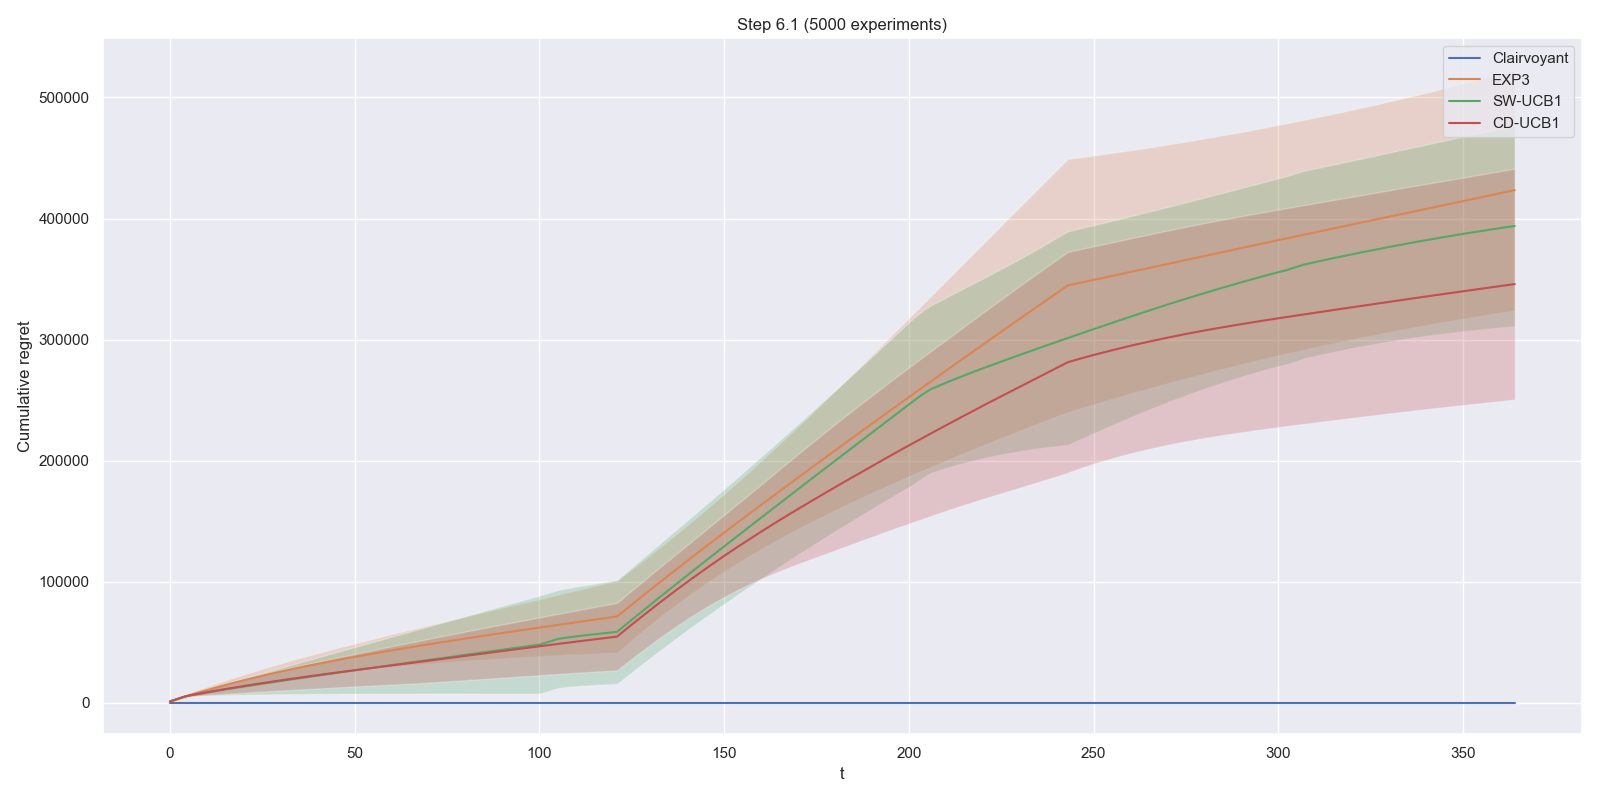
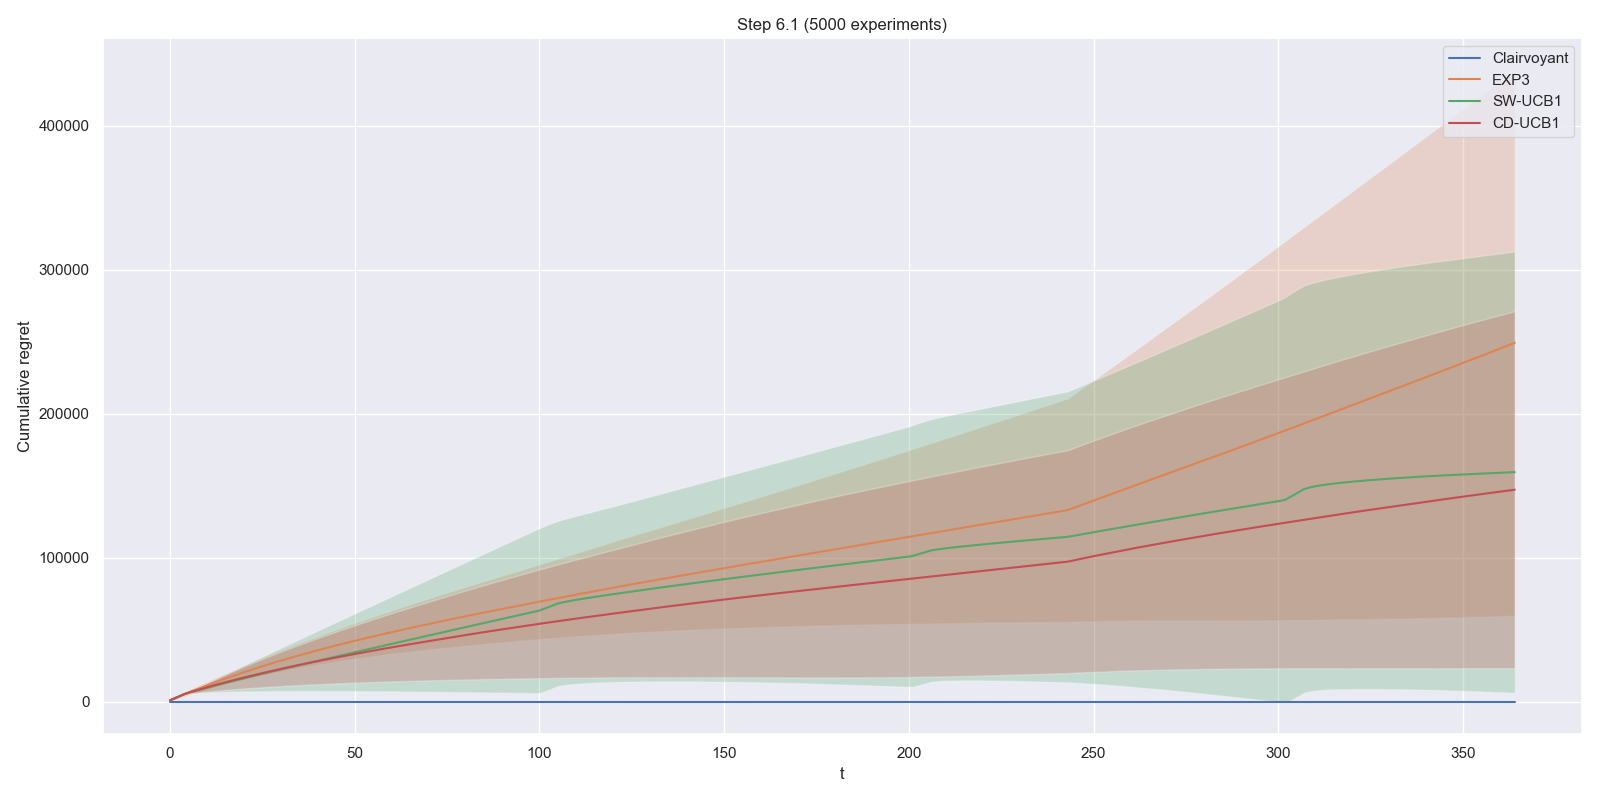
Update conversion rates for step 6.1

diff --git a/step6_1.py b/step6_1.py
@@ -17,9 +17,9 @@ n_experiments = 5000
 window_size = 100
 
 # CUSUM parameters
-M = 50
+M = 150
 eps = 0.5
-h = 40
+h = 120
 alpha = 0.1
 
 # EXP3 parameter
